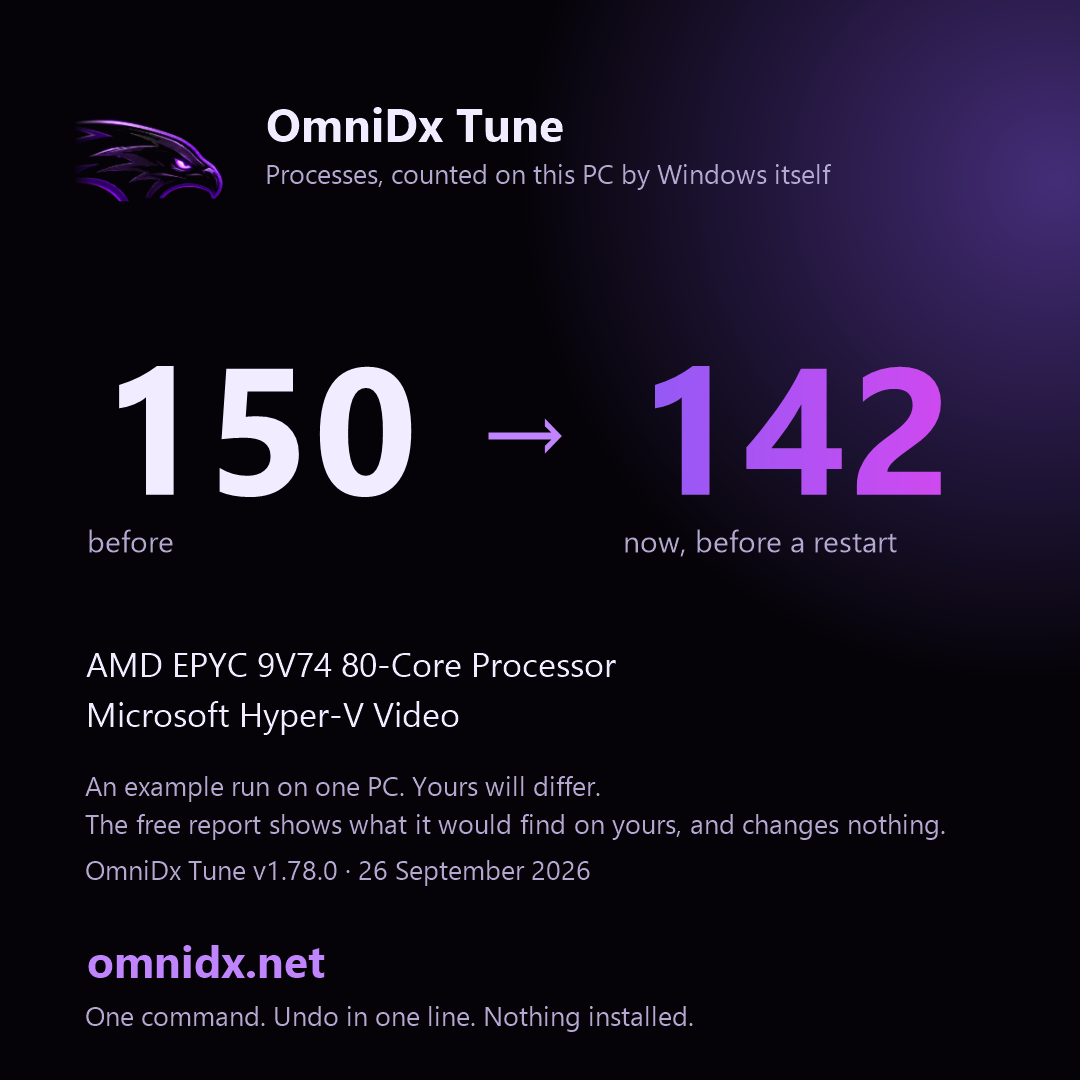
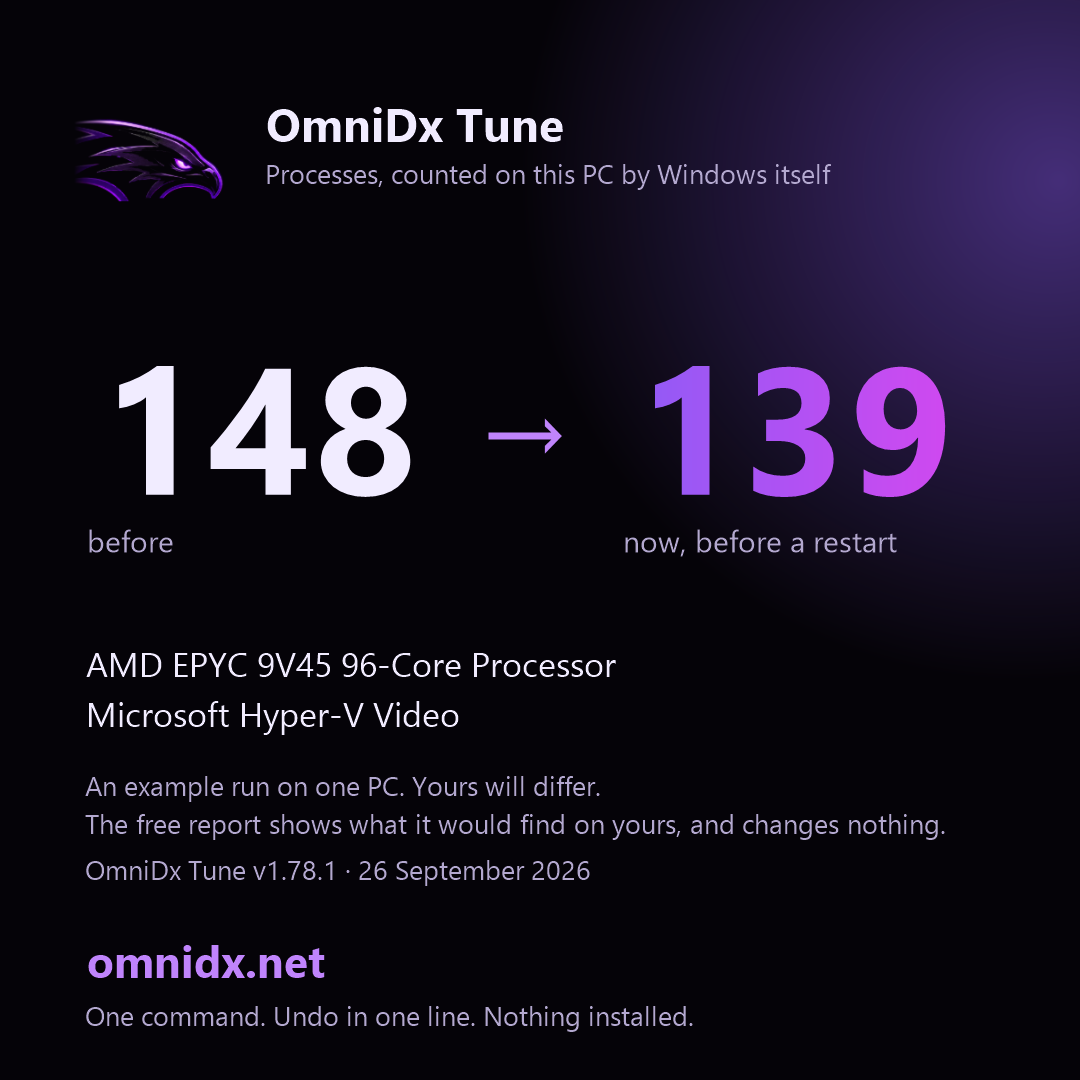
Windows check: the app window, the numbers, the log, and the script this run verified

Changed region(s): [[0.1833, 0.3361, 0.3972, 0.4583], [0.6722, 0.3361, 0.8861, 0.4583], [0.275, 0.5806, 0.3361, 0.6417]]

diff --git a/studio/assets/ci-report.html b/studio/assets/ci-report.html
@@ -1,5 +1,5 @@
 <!doctype html><html lang="en"><head><meta charset="utf-8"><meta name="viewport" content="width=device-width,initial-scale=1">
-<title>OmniDx Tune report - 2026-09-26_04-01-28</title>
+<title>OmniDx Tune report - 2026-09-26_04-13-05</title>
 <style>
 body{margin:0;background:#050308;color:#f1ecff;font:15px/1.6 -apple-system,'Segoe UI',Roboto,system-ui,sans-serif}
 main{max-width:860px;margin:0 auto;padding:36px 20px 80px}
@@ -17,101 +17,43 @@ details{margin:10px 0;background:#0e0a17;border:1px solid #2a1f45;border-radius:
 details pre{font:12.5px/1.5 ui-monospace,Consolas,monospace;color:#b3a8cf;overflow:auto;max-height:420px;margin:10px 0 4px}
 .bios ul{list-style:none;padding-left:2px}.bios li{margin:8px 0;color:#f1ecff}.bios{background:#0e0a17;border:1px solid #2a1f45;border-radius:14px;padding:6px 18px}
 </style></head><body><main>
-<h1><img src="https://omnidx.net/studio/assets/icons/icon-192.png" alt="" width="44" height="44" style="vertical-align:middle;margin-right:10px" onerror="this.remove()">OmniDx Tune <span class="muted" style="font-size:16px">v1.78.0</span></h1>
-<p class="sub">Saturday, September 26, 2026 4:02 AM &middot; AMD EPYC 9V74 80-Core Processor &middot; Microsoft Hyper-V Video &middot; 16 GB &middot; Microsoft Corporation Virtual Machine</p>
-<div class="big"><div><b>150</b><span>processes before</span></div><div><b>142</b><span>now, before a restart</span></div><div><b>~75</b><span>target for this PC after a restart</span></div></div>
+<h1><img src="https://omnidx.net/studio/assets/icons/icon-192.png" alt="" width="44" height="44" style="vertical-align:middle;margin-right:10px" onerror="this.remove()">OmniDx Tune <span class="muted" style="font-size:16px">v1.78.1</span></h1>
+<p class="sub">Saturday, September 26, 2026 4:14 AM &middot; AMD EPYC 9V45 96-Core Processor &middot; Microsoft Hyper-V Video &middot; 16 GB &middot; Microsoft Corporation Virtual Machine</p>
+<div class="big"><div><b>148</b><span>processes before</span></div><div><b>139</b><span>now, before a restart</span></div><div><b>~75</b><span>target for this PC after a restart</span></div></div>
 <p class='muted'>The card, for posting (the same numbers, on one picture): <code>ci-card.png</code></p><img src='ci-card.png' alt='Before and after, on a card' style='max-width:340px;width:100%;border-radius:14px;border:1px solid #2a1f45'>
 <p class="muted">Many of the "now" processes are only waiting to be stopped. The number after a restart is the one that counts; <code>C:\OmniDx\after-restart.txt</code> gets it at your next sign-in. Kept cut: a task at each sign-in puts back what a Windows update turns on; undo removes it.</p>
 <h2>Next steps</h2><ol><li>Restart. The services told to stop are still unwinding until you do, and the after-restart count lands in C:\OmniDx\after-restart.txt at your next sign-in, with the boot time of that start next to the one from before the tune.</li><li>BIOS: items 1 to 3 (memory profile, Re-Size BAR, CSM). Ten minutes, and the memory profile alone is the biggest free gain any PC has.</li><li>GPU control panel: low latency mode, power management and V-Sync, from the list below. Two minutes.</li><li>Launchers and overlays: the list below names the one or two settings in each that matter; the overlays are the usual cause of a stutter that &quot;came from nowhere&quot;.</li><li>Any time: $env:OMNIDX_MODE=&#39;status&#39;; irm omnidx.net/go.ps1 | iex shows what is still in place; undo is one line, and it is in this report.</li></ol>
-<h2>Before and after</h2><table><tr><th></th><th>Before</th><th>Now</th></tr><tr><td>Processes</td><td>150</td><td>142</td></tr><tr><td>Threads</td><td>1509</td><td>1444</td></tr><tr><td>Handles</td><td>50396</td><td>47895</td></tr><tr><td>Memory in use</td><td>2871 MB</td><td>2980 MB</td></tr><tr><td>Idle CPU</td><td>1.2%</td><td>1.1%</td></tr><tr><td>DPC time</td><td>0%</td><td>0%</td></tr></table>
+<h2>Before and after</h2><table><tr><th></th><th>Before</th><th>Now</th></tr><tr><td>Processes</td><td>148</td><td>139</td></tr><tr><td>Threads</td><td>1557</td><td>1439</td></tr><tr><td>Handles</td><td>50479</td><td>47780</td></tr><tr><td>Memory in use</td><td>2854 MB</td><td>2883 MB</td></tr><tr><td>Idle CPU</td><td>0.8%</td><td>0.6%</td></tr><tr><td>DPC time</td><td>0%</td><td>0%</td></tr></table>
 <h2>Gone, by name</h2><p class='muted'>Running before, not running now: spoolsv</p>
-<details><summary>Every process, before (58 names)</summary><pre>svchost                                  x81     1,201 MB
+<details><summary>Every process, before (57 names)</summary><pre>svchost                                  x80     1,216 MB
 conhost                                  x4         34 MB
 notepad                                  x3         89 MB
-taskhostw                                x3         59 MB
-WmiPrvSE                                 x3         62 MB
+taskhostw                                x3         87 MB
+WmiPrvSE                                 x3         74 MB
 csrss                                    x2         14 MB
 fontdrvhost                              x2         11 MB
 SMSvcHost                                x2         50 MB
-AzureArcSysTray                          x1         19 MB
-ctfmon                                   x1         26 MB
+AzureArcSysTray                          x1         20 MB
+ctfmon                                   x1         31 MB
 DefenderSessionHelper                    x1          6 MB
 dockerd                                  x1         46 MB
 dwm                                      x1         78 MB
-explorer                                 x1        162 MB
-hosted-compute-agent                     x1         21 MB
+explorer                                 x1        159 MB
+hosted-compute-agent                     x1         19 MB
 Idle                                     x1          0 MB
 LsaIso                                   x1          4 MB
 lsass                                    x1         31 MB
 MpDefenderCoreService                    x1         29 MB
 mqsvc                                    x1         19 MB
 msdtc                                    x1         14 MB
-MsMpEng                                  x1        162 MB
+MsMpEng                                  x1        163 MB
 node                                     x1         43 MB
 OpenConsole                              x1         14 MB
 powershell                               x1        167 MB
-provjobd.exe2556209440                   x1         36 MB
-Registry                                 x1         78 MB
+provjobd.exe3125248821                   x1         21 MB
+Registry                                 x1        126 MB
 Runner.Listener                          x1         72 MB
-Runner.Worker                            x1        111 MB
-RuntimeBroker                            x1         49 MB
-SearchHost                               x1        113 MB
-Secure System                            x1         52 MB
-SecurityHealthService                    x1         12 MB
-ServiceFabricLocalClusterManager         x1         36 MB
-services                                 x1         11 MB
-ShellHost                                x1         42 MB
-sihost                                   x1         42 MB
-smartscreen                              x1         12 MB
-smss                                     x1          2 MB
-spoolsv                                  x1         22 MB
-sqlwriter                                x1         11 MB
-sshd                                     x1          9 MB
-StartMenuExperienceHost                  x1        133 MB
-System                                   x1          0 MB
-SystemPropertiesPerformance              x1         14 MB
-TiWorker                                 x1         30 MB
-TrustedInstaller                         x1         10 MB
-UserOOBEBroker                           x1         11 MB
-vmcompute                                x1         11 MB
-vmms                                     x1         34 MB
-WaAppAgent                               x1         84 MB
-WaSecAgentProv                           x1          5 MB
-WindowsAzureGuestAgent                   x1         65 MB
-WindowsTerminal                          x1         85 MB
-wininit                                  x1          9 MB
-winlogon                                 x1         13 MB
-wslservice                               x1         27 MB
-WUDFHost                                 x1         12 MB</pre></details><details><summary>Every process, after (59 names)</summary><pre>svchost                                  x72     1,091 MB
-conhost                                  x4         34 MB
-notepad                                  x3         88 MB
-taskhostw                                x3         56 MB
-WmiPrvSE                                 x3         68 MB
-csrss                                    x2         14 MB
-fontdrvhost                              x2         11 MB
-SMSvcHost                                x2         50 MB
-AzureArcSysTray                          x1         19 MB
-ctfmon                                   x1         26 MB
-DefenderSessionHelper                    x1          6 MB
-dllhost                                  x1         13 MB
-dockerd                                  x1         46 MB
-dwm                                      x1         78 MB
-explorer                                 x1        162 MB
-hosted-compute-agent                     x1         22 MB
-Idle                                     x1          0 MB
-LsaIso                                   x1          4 MB
-lsass                                    x1         31 MB
-MpDefenderCoreService                    x1         29 MB
-mqsvc                                    x1         19 MB
-msdtc                                    x1         14 MB
-MsMpEng                                  x1        162 MB
-node                                     x1         41 MB
-OpenConsole                              x1         14 MB
-powershell                               x1        226 MB
-provjobd.exe2556209440                   x1         35 MB
-Registry                                 x1         65 MB
-Runner.Listener                          x1         75 MB
-Runner.Worker                            x1        110 MB
+Runner.Worker                            x1        101 MB
 RuntimeBroker                            x1         47 MB
 SearchHost                               x1        109 MB
 Secure System                            x1         52 MB
@@ -119,26 +61,81 @@ SecurityHealthService                    x1         12 MB
 ServiceFabricLocalClusterManager         x1         36 MB
 services                                 x1         12 MB
 ShellHost                                x1         42 MB
-sihost                                   x1         42 MB
-smartscreen                              x1         12 MB
+sihost                                   x1         43 MB
 smss                                     x1          2 MB
+spoolsv                                  x1         22 MB
 sqlwriter                                x1         11 MB
 sshd                                     x1          9 MB
 StartMenuExperienceHost                  x1        130 MB
 System                                   x1          0 MB
 SystemPropertiesPerformance              x1         14 MB
-TiWorker                                 x1         40 MB
+TiWorker                                 x1         32 MB
 TrustedInstaller                         x1         10 MB
 UserOOBEBroker                           x1         11 MB
 vmcompute                                x1         11 MB
-vmms                                     x1         34 MB
+vmms                                     x1         33 MB
 WaAppAgent                               x1         84 MB
 WaSecAgentProv                           x1          5 MB
-WindowsAzureGuestAgent                   x1         65 MB
+WindowsAzureGuestAgent                   x1         70 MB
 WindowsTerminal                          x1         85 MB
 wininit                                  x1          9 MB
 winlogon                                 x1         13 MB
-WMIADAP                                  x1         11 MB
+wslservice                               x1         27 MB
+WUDFHost                                 x1         12 MB</pre></details><details><summary>Every process, after (57 names)</summary><pre>svchost                                  x71     1,079 MB
+conhost                                  x4         34 MB
+notepad                                  x3         88 MB
+taskhostw                                x3         84 MB
+WmiPrvSE                                 x3         79 MB
+csrss                                    x2         14 MB
+fontdrvhost                              x2         11 MB
+SMSvcHost                                x2         50 MB
+AzureArcSysTray                          x1         20 MB
+ctfmon                                   x1         31 MB
+DefenderSessionHelper                    x1          6 MB
+dllhost                                  x1         13 MB
+dockerd                                  x1         46 MB
+dwm                                      x1         78 MB
+explorer                                 x1        160 MB
+hosted-compute-agent                     x1         17 MB
+Idle                                     x1          0 MB
+LsaIso                                   x1          4 MB
+lsass                                    x1         31 MB
+MpDefenderCoreService                    x1         29 MB
+mqsvc                                    x1         19 MB
+msdtc                                    x1         14 MB
+MsMpEng                                  x1        163 MB
+node                                     x1         41 MB
+OpenConsole                              x1         14 MB
+powershell                               x1        194 MB
+provjobd.exe3125248821                   x1         20 MB
+Registry                                 x1         65 MB
+Runner.Listener                          x1         71 MB
+Runner.Worker                            x1        101 MB
+RuntimeBroker                            x1         47 MB
+SearchHost                               x1        110 MB
+Secure System                            x1         52 MB
+SecurityHealthService                    x1         12 MB
+ServiceFabricLocalClusterManager         x1         36 MB
+services                                 x1         12 MB
+ShellHost                                x1         42 MB
+sihost                                   x1         42 MB
+smss                                     x1          2 MB
+sqlwriter                                x1         11 MB
+sshd                                     x1          9 MB
+StartMenuExperienceHost                  x1        131 MB
+System                                   x1          0 MB
+SystemPropertiesPerformance              x1         14 MB
+TiWorker                                 x1         42 MB
+TrustedInstaller                         x1         10 MB
+UserOOBEBroker                           x1         11 MB
+vmcompute                                x1         11 MB
+vmms                                     x1         33 MB
+WaAppAgent                               x1         84 MB
+WaSecAgentProv                           x1          5 MB
+WindowsAzureGuestAgent                   x1         70 MB
+WindowsTerminal                          x1         85 MB
+wininit                                  x1          9 MB
+winlogon                                 x1         13 MB
 wslservice                               x1         27 MB
 WUDFHost                                 x1         12 MB</pre></details>
 <h2>Kept, and why</h2><ul><li>Defender, the firewall, Windows Update, audio, networking: always</li><li>Themes: Windows 10 falls back to the classic look without it</li><li>vmicguestinterface: this is a virtual machine</li><li>vmicheartbeat: this is a virtual machine</li><li>vmickvpexchange: this is a virtual machine</li><li>vmicrdv: this is a virtual machine</li><li>vmicshutdown: this is a virtual machine</li><li>vmictimesync: this is a virtual machine</li><li>vmicvmsession: this is a virtual machine</li><li>vmicvss: this is a virtual machine</li><li>XblAuthManager: Game Pass, the Xbox app or Minecraft is installed</li></ul>
@@ -149,8 +146,8 @@ WUDFHost                                 x1         12 MB</pre></details>
 <h2>Launchers, overlays and helper apps</h2><ul><li>Xbox app: Settings &gt; General &gt; &quot;Auto-start&quot; off (the entry the tune switched off), &quot;Show notifications&quot; off. Game Pass games install under C:\XboxGames and are already in the CPU-priority list where the game is listed.</li></ul>
 <h2>Left by other tools</h2><p class="muted">The tune changes none of these; it names them, with the way back.</p><ul><li>Nothing found: no other tool has left Defender, Windows Update, SmartScreen, User Account Control or the CPU mitigations switched off on this PC.</li></ul>
 <h2>Per game</h2><p class='muted'>Not found on this PC (the same profile applies if you install them): Fortnite, VALORANT, Counter-Strike 2, Marvel Rivals, Apex Legends, Call of Duty (Warzone / MW), Overwatch 2, Rainbow Six Siege, Rocket League, Minecraft, Roblox, League of Legends, GTA V / Online, Rust, Escape from Tarkov, PUBG, The Finals, Dota 2, Battlefield 6, Deadlock, Delta Force, ARC Raiders, Helldivers 2, Warframe, Destiny 2, Halo Infinite, Dead by Daylight, Hunt: Showdown 1896, War Thunder, World of Warcraft, Squad, Battlefield 2042, EA Sports FC 26, NBA 2K26, Palworld, Path of Exile 2, Diablo IV, Monster Hunter Wilds, Elden Ring / Nightreign, Cyberpunk 2077, Baldur&#39;s Gate 3, Star Citizen, DayZ, Arma Reforger, Hell Let Loose, Genshin Impact, Ready or Not, Final Fantasy XIV, STALKER 2, Sea of Thieves</p>
-<h2>What was done</h2><h4>Safety first</h4><div class='did'>Registry and service list backed up to C:\OmniDx\backup\2026-09-26_04-01-28</div><div class='did'>undo.ps1 written to C:\OmniDx\undo</div><h4>Startup apps</h4><div class='did'>off: AzureArcSetup</div><div class='did'>off: Service Fabric Local Cluster Manager (Startup folder)</div><h4>Services</h4><div class='did'>dmwappushservice -&gt; disabled  (telemetry push)</div><div class='did'>WerSvc -&gt; disabled  (error reporting)</div><div class='did'>wercplsupport -&gt; disabled  (error reporting)</div><div class='did'>PcaSvc -&gt; disabled  (compatibility assistant)</div><div class='did'>lfsvc -&gt; disabled  (geolocation)</div><div class='did'>RemoteRegistry -&gt; disabled  (remote registry)</div><div class='did'>WMPNetworkSvc -&gt; disabled  (media sharing)</div><div class='did'>TrkWks -&gt; disabled  (link tracking)</div><div class='did'>WalletService -&gt; disabled  (wallet)</div><div class='did'>wisvc -&gt; disabled  (insider program)</div><div class='did'>SEMgrSvc -&gt; disabled  (payments and NFC)</div><div class='did'>TapiSrv -&gt; disabled  (telephony)</div><div class='did'>SharedAccess -&gt; disabled  (internet connection sharing)</div><div class='did'>edgeupdate -&gt; manual  (Edge updater (runs on demand))</div><div class='did'>WbioSrvc -&gt; disabled  (biometrics)</div><div class='did'>SysMain already disabled; left that way</div><div class='did'>WSearch already disabled; left that way</div><div class='did'>Spooler -&gt; disabled  (print spooler)</div><div class='did'>bthserv -&gt; disabled  (bluetooth)</div><div class='did'>WlanSvc -&gt; disabled  (wi-fi)</div><div class='did'>CDPSvc -&gt; manual  (connected devices)</div><div class='did'>CDPUserSvc already disabled; left that way</div><div class='did'>OneSyncSvc already disabled; left that way</div><div class='did'>PimIndexMaintenanceSvc already disabled; left that way</div><div class='did'>UnistoreSvc already disabled; left that way</div><div class='did'>UserDataSvc already disabled; left that way</div><div class='did'>SSDPSRV already disabled; left that way</div><div class='did'>upnphost already disabled; left that way</div><div class='did'>DPS -&gt; manual  (diagnostic policy)</div><div class='did'>SCardSvr -&gt; disabled  (smart card)</div><div class='did'>ScDeviceEnum -&gt; disabled  (smart card)</div><div class='did'>CertPropSvc -&gt; disabled  (smart card)</div><div class='did'>iphlpsvc -&gt; manual  (ipv6 tunnels)</div><div class='did'>cbdhsvc -&gt; manual  (clipboard history)</div><div class='did'>WpnService -&gt; manual  (push notifications)</div><div class='did'>WpnUserService -&gt; manual  (push notifications)</div><div class='did'>SNMPTRAP -&gt; disabled  (SNMP traps)</div><div class='did'>workfolderssvc -&gt; disabled  (Work Folders sync)</div><h4>Scheduled tasks</h4><div class='did'>PcaPatchDbTask</div><div class='did'>CreateObjectTask</div><div class='did'>Device</div><div class='did'>Device User</div><div class='did'>LoginCheck</div><div class='did'>WindowsActionDialog</div><div class='did'>OobeDiscovery</div><div class='did'>Diagnostics</div><div class='did'>UsageDataFlushing</div><div class='did'>UsageDataReporting</div><div class='did'>Registration</div><div class='did'>IndexerAutomaticMaintenance</div><div class='did'>Storage Tiers Management Initialization</div><div class='did'>UPnPHostConfig</div><div class='did'>ResolutionHost</div><div class='did'>UpdateLibrary</div><div class='did'>Work Folders Logon Synchronization</div><div class='did'>Work Folders Maintenance Work</div><h4>Preinstalled apps</h4><div class='did'>Microsoft.WindowsFeedbackHub</div><h4>Debloat</h4><div class='did'>removed Steps Recorder (screenshots every click, retired by Microsoft)</div><div class='did'>removed the 2009 Windows Media Player (the Store one stays)</div><div class='did'>removed Math Input Panel</div><div class='did'>removed Internet Explorer 11</div><div class='did'>off: Work Folders (corporate sync)</div><div class='did'>Edge: shopping assistant, recommendations, Spotlight, feedback prompts and reporting off</div><div class='did'>Kept gone: consumer features, suggested apps, account nags and the &#39;finish setting up&#39; screen are off by policy</div><h4>Telemetry, background activity, the shell</h4><div class='did'>Telemetry, the advertising id, activity history, suggestions, Bing in Start, Recall and Edge&#39;s reporting off; background apps off; widgets, news, Copilot and Cortana off; Game DVR off, Game Mode on; the classic right-click menu on 11</div><h4>System tuning</h4><div class='did'>NTFS last-access stamps off</div><div class='did'>NTFS allowed more memory for its cache</div><div class='did'>Defender&#39;s scheduled scans already capped at 5% of the CPU, lower than the tune&#39;s 25%: left as it is</div><h4>The OmniDx power plan</h4><div class='did'>2 plan setting(s) this PC does not have were skipped.</div><div class='did'>OmniDx plan created and active: CPU 100/100, boost aggressive, energy preference on performance, no core parking, no throttle states on a desktop, PCIe, USB and Wi-Fi power saving off, no sleep on mains.</div><h4>Network</h4><div class='did'>TCP: autotuning normal, ECN and timestamps off, receive-side scaling on, segment coalescing off, CTCP.</div><div class='did'>Ethernet 4: Interrupt Moderation off</div><div class='did'>Ethernet 4: Nagle off, power saving off</div><div class='did'>Ethernet 3: Nagle off, power saving off</div><h4>Discord, Spotify, browsers</h4><div class='did'>Discord: hardware acceleration on; it still starts with Windows, as you chose</div><div class='did'>Spotify: hardware acceleration on, no auto-start, friend feed off</div><div class='did'>Chrome: no background mode, hardware acceleration on</div><div class='did'>Edge: no startup boost, no background mode, hardware acceleration on</div><h4>Game profiles</h4><div class='did'>No listed game found on the usual drives; the CPU-priority profiles are in place for when one is installed.</div><h4>Game settings files</h4><div class='did'>Fortnite: V-Sync off, motion blur off, shadows off, post-processing low</div><div class='did'>Apex Legends: V-Sync off, sun shadows off, spot shadows off</div><div class='did'>Rocket League: V-Sync off, motion blur off, dynamic shadows off, depth of field off</div><div class='did'>Minecraft (Java): V-Sync off</div><h4>Cleanup</h4><div class='did'>Temp files, the Windows Update download cache and the peer-to-peer update cache cleared: about 305 MB back.</div><h4>Keeping it cut</h4><div class='did'>Task &#39;OmniDx keep&#39; runs three minutes after sign-in, puts back whatever an update turned on, notes that start&#39;s boot time and writes card-after-restart.png with that start&#39;s count. Log: C:\OmniDx\keep-log.txt. Undo removes it.</div>
-<h2>Undo</h2><p>Administrator PowerShell: <code>powershell -ExecutionPolicy Bypass -File C:\OmniDx\undo\undo.ps1</code><br>No restore point was made on this run (see the warnings); the undo script is the way back.<br>Changes recorded in <code>C:\OmniDx\undo\changes-2026-09-26_04-01-28.json</code>.</p>
+<h2>What was done</h2><h4>Safety first</h4><div class='did'>Registry and service list backed up to C:\OmniDx\backup\2026-09-26_04-13-05</div><div class='did'>undo.ps1 written to C:\OmniDx\undo</div><h4>Startup apps</h4><div class='did'>off: AzureArcSetup</div><div class='did'>off: Service Fabric Local Cluster Manager (Startup folder)</div><h4>Services</h4><div class='did'>dmwappushservice -&gt; disabled  (telemetry push)</div><div class='did'>WerSvc -&gt; disabled  (error reporting)</div><div class='did'>wercplsupport -&gt; disabled  (error reporting)</div><div class='did'>PcaSvc -&gt; disabled  (compatibility assistant)</div><div class='did'>lfsvc -&gt; disabled  (geolocation)</div><div class='did'>RemoteRegistry -&gt; disabled  (remote registry)</div><div class='did'>WMPNetworkSvc -&gt; disabled  (media sharing)</div><div class='did'>TrkWks -&gt; disabled  (link tracking)</div><div class='did'>WalletService -&gt; disabled  (wallet)</div><div class='did'>wisvc -&gt; disabled  (insider program)</div><div class='did'>SEMgrSvc -&gt; disabled  (payments and NFC)</div><div class='did'>TapiSrv -&gt; disabled  (telephony)</div><div class='did'>SharedAccess -&gt; disabled  (internet connection sharing)</div><div class='did'>edgeupdate -&gt; manual  (Edge updater (runs on demand))</div><div class='did'>WbioSrvc -&gt; disabled  (biometrics)</div><div class='did'>SysMain already disabled; left that way</div><div class='did'>WSearch already disabled; left that way</div><div class='did'>Spooler -&gt; disabled  (print spooler)</div><div class='did'>bthserv -&gt; disabled  (bluetooth)</div><div class='did'>WlanSvc -&gt; disabled  (wi-fi)</div><div class='did'>CDPSvc -&gt; manual  (connected devices)</div><div class='did'>CDPUserSvc already disabled; left that way</div><div class='did'>OneSyncSvc already disabled; left that way</div><div class='did'>PimIndexMaintenanceSvc already disabled; left that way</div><div class='did'>UnistoreSvc already disabled; left that way</div><div class='did'>UserDataSvc already disabled; left that way</div><div class='did'>SSDPSRV already disabled; left that way</div><div class='did'>upnphost already disabled; left that way</div><div class='did'>DPS -&gt; manual  (diagnostic policy)</div><div class='did'>SCardSvr -&gt; disabled  (smart card)</div><div class='did'>ScDeviceEnum -&gt; disabled  (smart card)</div><div class='did'>CertPropSvc -&gt; disabled  (smart card)</div><div class='did'>iphlpsvc -&gt; manual  (ipv6 tunnels)</div><div class='did'>cbdhsvc -&gt; manual  (clipboard history)</div><div class='did'>WpnService -&gt; manual  (push notifications)</div><div class='did'>WpnUserService -&gt; manual  (push notifications)</div><div class='did'>SNMPTRAP -&gt; disabled  (SNMP traps)</div><div class='did'>workfolderssvc -&gt; disabled  (Work Folders sync)</div><h4>Scheduled tasks</h4><div class='did'>PcaPatchDbTask</div><div class='did'>CreateObjectTask</div><div class='did'>Device</div><div class='did'>Device User</div><div class='did'>LoginCheck</div><div class='did'>WindowsActionDialog</div><div class='did'>OobeDiscovery</div><div class='did'>Diagnostics</div><div class='did'>UsageDataFlushing</div><div class='did'>UsageDataReporting</div><div class='did'>Registration</div><div class='did'>IndexerAutomaticMaintenance</div><div class='did'>Storage Tiers Management Initialization</div><div class='did'>UPnPHostConfig</div><div class='did'>ResolutionHost</div><div class='did'>UpdateLibrary</div><div class='did'>Work Folders Logon Synchronization</div><div class='did'>Work Folders Maintenance Work</div><h4>Preinstalled apps</h4><div class='did'>Microsoft.WindowsFeedbackHub</div><h4>Debloat</h4><div class='did'>removed Steps Recorder (screenshots every click, retired by Microsoft)</div><div class='did'>removed the 2009 Windows Media Player (the Store one stays)</div><div class='did'>removed Math Input Panel</div><div class='did'>removed Internet Explorer 11</div><div class='did'>off: Work Folders (corporate sync)</div><div class='did'>Edge: shopping assistant, recommendations, Spotlight, feedback prompts and reporting off</div><div class='did'>Kept gone: consumer features, suggested apps, account nags and the &#39;finish setting up&#39; screen are off by policy</div><h4>Telemetry, background activity, the shell</h4><div class='did'>Telemetry, the advertising id, activity history, suggestions, Bing in Start, Recall and Edge&#39;s reporting off; background apps off; widgets, news, Copilot and Cortana off; Game DVR off, Game Mode on; the classic right-click menu on 11</div><h4>System tuning</h4><div class='did'>NTFS last-access stamps off</div><div class='did'>NTFS allowed more memory for its cache</div><div class='did'>Defender&#39;s scheduled scans already capped at 5% of the CPU, lower than the tune&#39;s 25%: left as it is</div><h4>The OmniDx power plan</h4><div class='did'>2 plan setting(s) this PC does not have were skipped.</div><div class='did'>OmniDx plan created and active: CPU 100/100, boost aggressive, energy preference on performance, no core parking, no throttle states on a desktop, PCIe, USB and Wi-Fi power saving off, no sleep on mains.</div><h4>Network</h4><div class='did'>TCP: autotuning normal, ECN and timestamps off, receive-side scaling on, segment coalescing off, CTCP.</div><div class='did'>Ethernet 3: Nagle off, power saving off</div><div class='did'>Ethernet 4: Nagle off, power saving off</div><h4>Discord, Spotify, browsers</h4><div class='did'>Discord: hardware acceleration on; it still starts with Windows, as you chose</div><div class='did'>Spotify: hardware acceleration on, no auto-start, friend feed off</div><div class='did'>Chrome: no background mode, hardware acceleration on</div><div class='did'>Edge: no startup boost, no background mode, hardware acceleration on</div><h4>Game profiles</h4><div class='did'>No listed game found on the usual drives; the CPU-priority profiles are in place for when one is installed.</div><h4>Game settings files</h4><div class='did'>Fortnite: V-Sync off, motion blur off, shadows off, post-processing low</div><div class='did'>Apex Legends: V-Sync off, sun shadows off, spot shadows off</div><div class='did'>Rocket League: V-Sync off, motion blur off, dynamic shadows off, depth of field off</div><div class='did'>Minecraft (Java): V-Sync off</div><h4>Cleanup</h4><div class='did'>Temp files, the Windows Update download cache and the peer-to-peer update cache cleared: about 305 MB back.</div><h4>Keeping it cut</h4><div class='did'>Task &#39;OmniDx keep&#39; runs three minutes after sign-in, puts back whatever an update turned on, notes that start&#39;s boot time and writes card-after-restart.png with that start&#39;s count. Log: C:\OmniDx\keep-log.txt. Undo removes it.</div>
+<h2>Undo</h2><p>Administrator PowerShell: <code>powershell -ExecutionPolicy Bypass -File C:\OmniDx\undo\undo.ps1</code><br>No restore point was made on this run (see the warnings); the undo script is the way back.<br>Changes recorded in <code>C:\OmniDx\undo\changes-2026-09-26_04-13-05.json</code>.</p>
 <h2>Status, any time</h2><p>What is still in place, what an update put back, the keep task and the after-restart count: <code>$env:OMNIDX_MODE='status'; irm omnidx.net/go.ps1 | iex</code><br><span class="muted">README.txt in C:\OmniDx says what each file there is.</span></p>
 <p class="muted" style="margin-top:40px">omnidx.net &middot; one payment, one PC, undo in one line.</p>
 </main></body></html>
